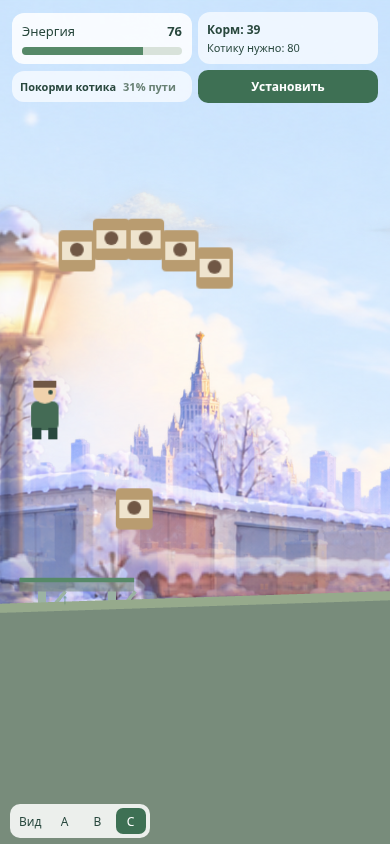
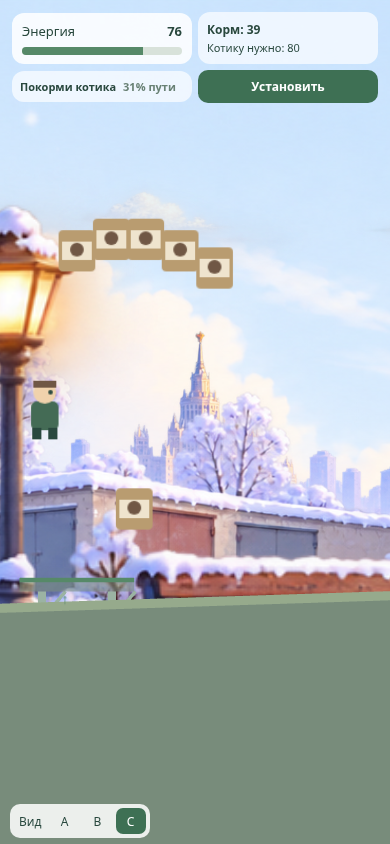
Remove ghost translucency from winter buildings and props

Changed region(s): [[0.0, 0.2464, 1.0, 0.7393]]

diff --git a/src/winter-parallax-background.ts b/src/winter-parallax-background.ts
@@ -5,8 +5,8 @@ export const winterLayers = [
   { name: 'sky', factor: .01, alpha: 1, placement: 'cover' },
   { name: 'atmosphere', factor: .04, alpha: .6, placement: 'air' },
   { name: 'far-city', factor: .09, alpha: 1, placement: 'far' },
-  { name: 'mid-city', factor: .16, alpha: .7, placement: 'mid' },
-  { name: 'near-decor', factor: .30, alpha: .55, placement: 'near' },
+  { name: 'mid-city', factor: .16, alpha: 1, placement: 'mid' },
+  { name: 'near-decor', factor: .30, alpha: 1, placement: 'near' },
 ] as const;
 
 export class WinterParallaxBackground {

diff --git a/docs/winter-parallax.md b/docs/winter-parallax.md
@@ -19,7 +19,7 @@ Horizontal scroll factors: sky .01, atmosphere .04, far-city .09, mid-city .16,
 near-decor .30. All vertical factors are0, so jumping and camera recovery do not
 move the background vertically. Standard camera behavior / zoom remains unchanged.
 Near .30 and mid .16 use the quiet end of the proposed ranges. Layer opacity is
-1 / .6 /1 /.7 /.55: no tint or contrast filter; foreground drawing is untouched.
+1 / .6 /1 /1 /1: no tint or contrast filter; foreground drawing is untouched.
 
 The same source image is progressively revealed as the camera moves right:
 
@@ -101,3 +101,12 @@ Changed: `src/main.ts`, `package.json` (test command only).
 Added: `src/winter-parallax-background.ts`, `scripts/check-winter-background.mjs`,
 five canonical PNGs, this report, validation JSON and preview PNG.
 No gameplay redesign or new mechanics in this pass.
+
+## Opacity correction after phone feedback
+
+The initial .7 mid-city / .55 near-decor opacity exposed distant buildings through
+solid garages, roofs and props. Both architectural/decorative layers now use
+alpha1. Source PNG alpha is preserved for empty areas and soft edges (sampled
+solid interiors are251–253/255); only the extra blanket translucency is removed.
+Atmosphere remains .6. No change to Tanya damage blinking, gameplay, camera,
+parallax factors, layer dimensions or asset pixels.
